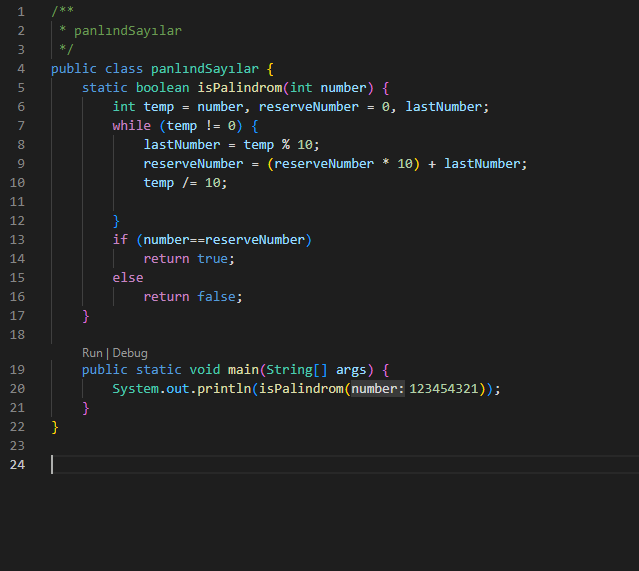
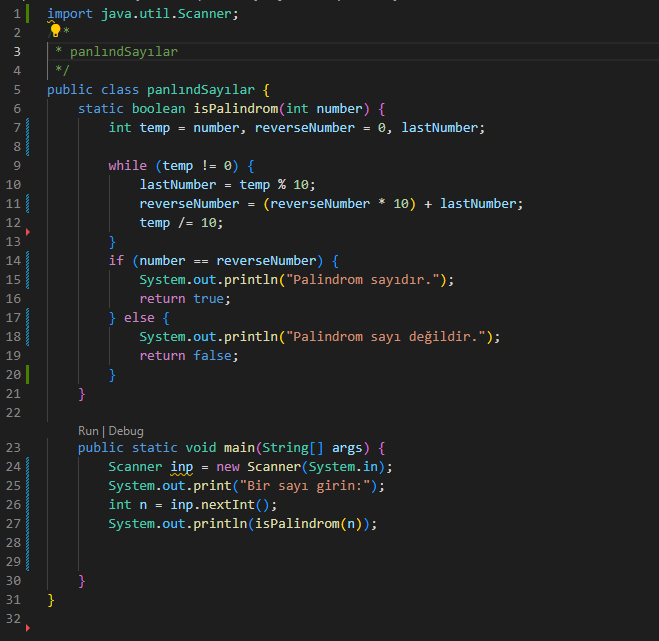
tam

diff --git a/panlındSayılar.java b/panlındSayılar.java
@@ -1,23 +1,31 @@
+import java.util.Scanner;
 /**
  * panlındSayılar
  */
 public class panlındSayılar {
     static boolean isPalindrom(int number) {
-        int temp = number, reserveNumber = 0, lastNumber;
+        int temp = number, reverseNumber = 0, lastNumber;
+
         while (temp != 0) {
             lastNumber = temp % 10;
-            reserveNumber = (reserveNumber * 10) + lastNumber;
+            reverseNumber = (reverseNumber * 10) + lastNumber;
             temp /= 10;
-
         }
-        if (number==reserveNumber)
+        if (number == reverseNumber) {
+            System.out.println("Palindrom sayıdır.");
             return true;
-        else
+        } else {
+            System.out.println("Palindrom sayı değildir.");
             return false;
+        }
     }
 
     public static void main(String[] args) {
-        System.out.println(isPalindrom(123454321));
+        Scanner inp = new Scanner(System.in);
+        System.out.print("Bir sayı girin:");
+        int n = inp.nextInt();
+        System.out.println(isPalindrom(n));
+
+
     }
 }
-
